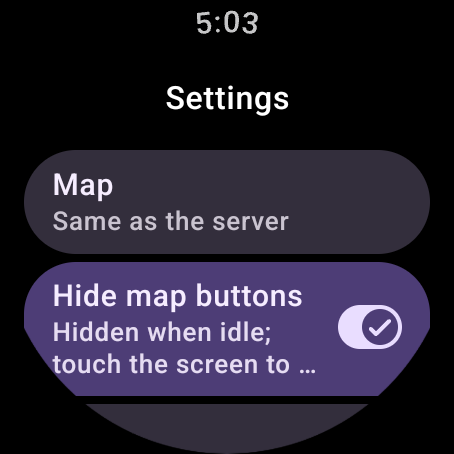
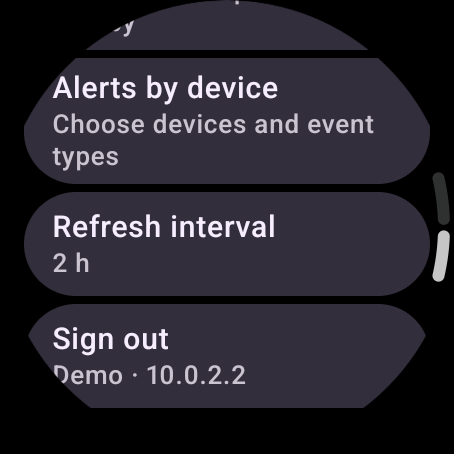
Capturas del README: ajustes nuevos, avisos por dispositivo y refresco

diff --git a/README.md b/README.md
@@ -71,6 +71,13 @@ This is an independent project and is not affiliated with or endorsed by Traccar
 - *Settings › Refresh interval*: type any number and choose **minutes, hours or days**. It sets how often the tile refreshes on its own and how often the watch looks for new alerts.
 - Android never runs background checks more often than every 15 minutes, so alerts use whichever is larger: your interval or 15 minutes. The tile follows your interval exactly, and it also refreshes every time it comes into view.
 
+<table>
+  <tr>
+    <td align="center"><img src="docs/media/shot-alerts.png" width="200"><br><sub>Alerts per device and event type</sub></td>
+    <td align="center"><img src="docs/media/shot-refresh.png" width="200"><br><sub>Your own refresh interval</sub></td>
+  </tr>
+</table>
+
 ### ⌨ Made for typing on a watch
 - Nothing is masked, long values wrap onto several lines and every text field has a **Clear** button.
 - Available in **English, Spanish, French, German, Italian, Portuguese, Catalan, Basque and Galician**.
